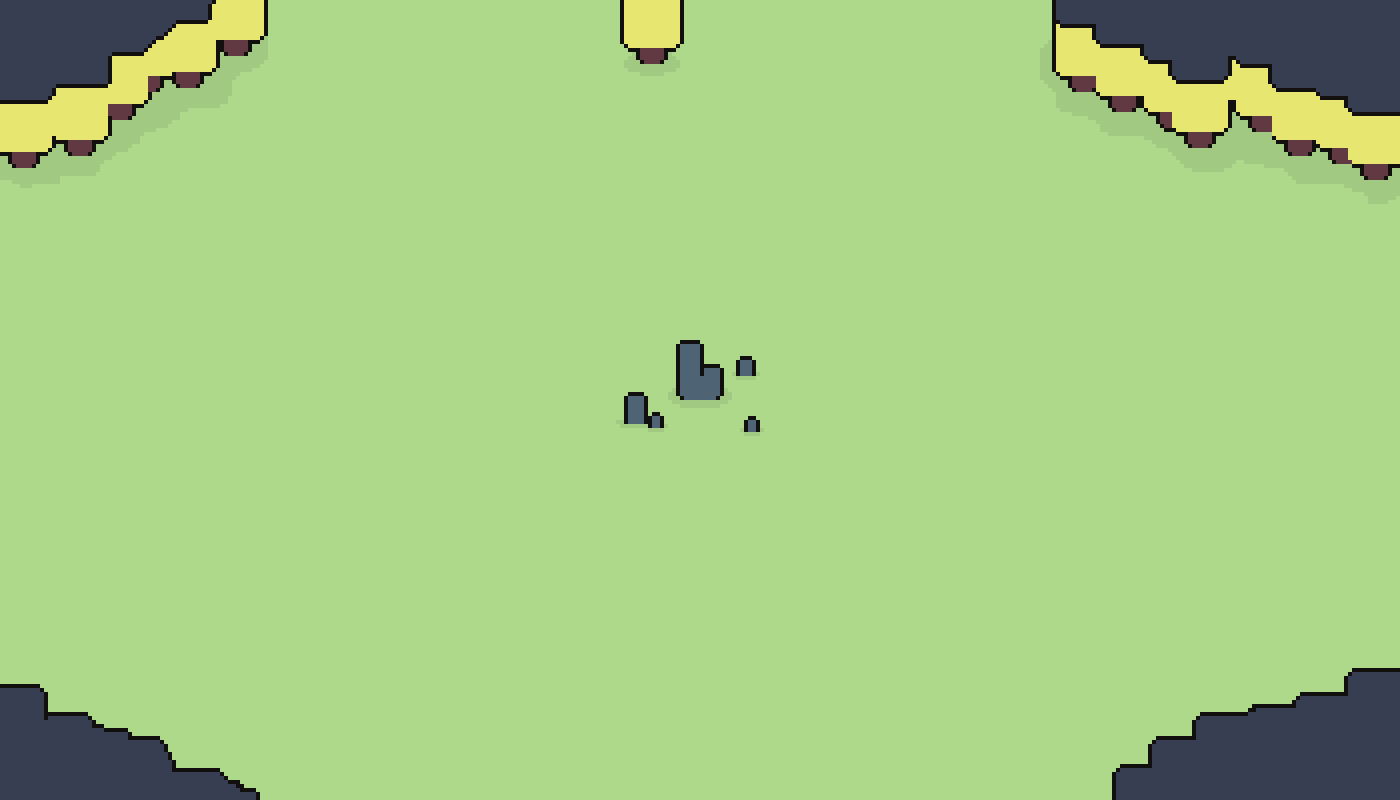
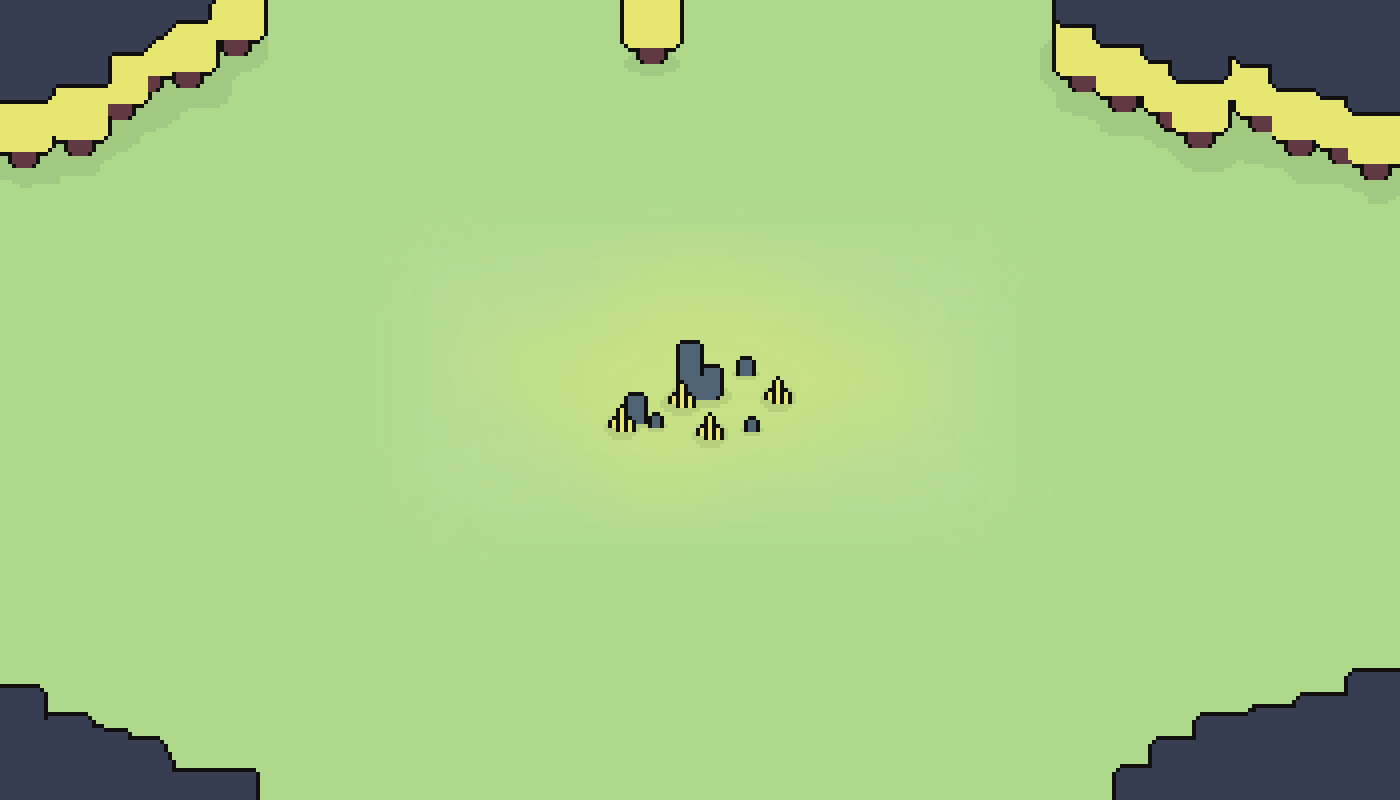
New backgrounds

Changed region(s): [[0.43, 0.4375, 0.5836, 0.5625], [0.1536, 0.9375, 0.1843, 1.0]]

diff --git a/public/js/script.js b/public/js/script.js
@@ -519,7 +519,7 @@ if (sessionInProgress) {
     myCanvas.style.backgroundColor = "white";
     myCanvas.style.border = "1px solid black";
     myCanvas.style.align = "center";
-    const player = new Player(race, 100, 300, 85, 85, 5, 5, 1, 0);
+    const player = new Player(race, 100, 300, 80, 80, 5, 5, 1, 0);
 
     function startGame() {
       player.initialize()
